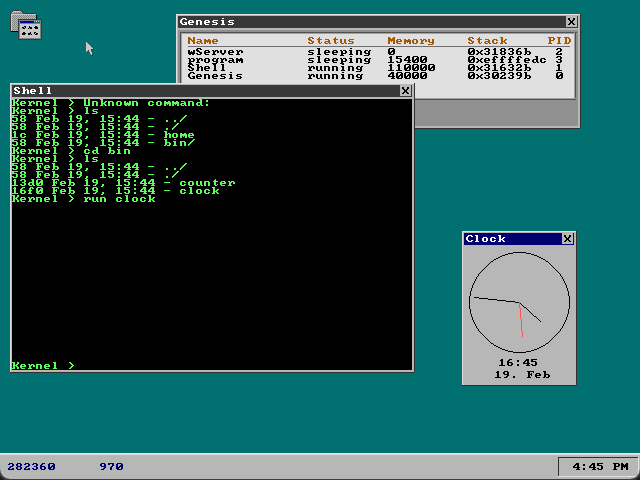
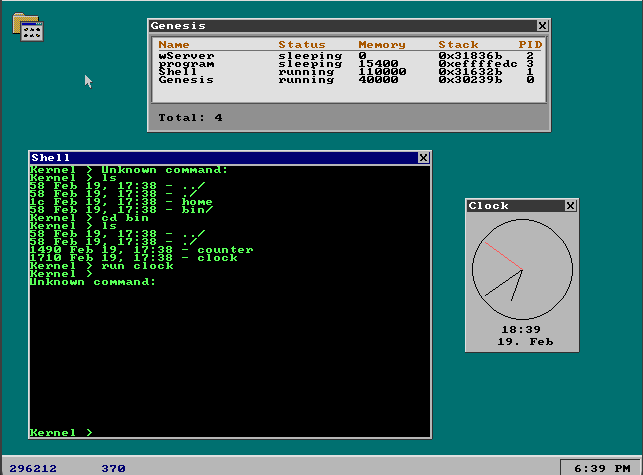
Clock: fixed visual bug

diff --git a/kernel/memory.c b/kernel/memory.c
@@ -414,7 +414,18 @@ void cleanup_process_paging(struct pcb* pcb)
 {
 	uint32_t directory = (uint32_t)pcb->page_dir;
 	uint32_t data_table = (uint32_t)pcb->page_dir[DIRECTORY_INDEX(0x1000000)] & ~PAGE_MASK;
-	uint32_t data_page = (uint32_t)((uint32_t*)(pcb->page_dir[DIRECTORY_INDEX(0x1000000)] & ~PAGE_MASK))[TABLE_INDEX(0x1000000)]& ~PAGE_MASK;
+
+	int size = pcb->data_size;
+	int i = 0;
+	while(size > 4096){
+		uint32_t data_page = (uint32_t)((uint32_t*)(pcb->page_dir[DIRECTORY_INDEX(0x1000000)] & ~PAGE_MASK))[TABLE_INDEX(0x1000000+(i*4096))]& ~PAGE_MASK;
+		memory_free_page((void*) data_page);
+		size -= 4096;
+		i++;
+	}
+
+	uint32_t data_page = (uint32_t)((uint32_t*)(pcb->page_dir[DIRECTORY_INDEX(0x1000000)] & ~PAGE_MASK))[TABLE_INDEX(0x1000000+(i*4096))]& ~PAGE_MASK;
+	memory_free_page((void*) data_page);
 
 	uint32_t stack_table = (uint32_t)pcb->page_dir[DIRECTORY_INDEX(0x1000000)] & ~PAGE_MASK;
 	uint32_t stack_page = (uint32_t)((uint32_t*)(pcb->page_dir[DIRECTORY_INDEX(0x1000000)] & ~PAGE_MASK))[TABLE_INDEX(0x1000000)]& ~PAGE_MASK;
@@ -426,7 +437,6 @@ void cleanup_process_paging(struct pcb* pcb)
 	memory_free_page((void*) stack_page);
 	memory_free_page((void*) stack_table);
 
-	memory_free_page((void*) data_page);
 	memory_free_page((void*) data_table);
 
 	memory_free_page((void*) dynamic_mem);

diff --git a/usr/clock.c b/usr/clock.c
@@ -24,6 +24,7 @@ int main()
     gfx_create_window(110, 140);
     gfx_set_title("Clock");
 
+    printf("Clock started\n");
     while (1)
     {
         get_current_time(&current_time);
@@ -32,9 +33,9 @@ int main()
 
         int angle_id = (0.5 * (current_time.hour%12 * 60 + current_time.minute) / 6);
 
-		gfx_draw_line(55, 55, 50 + (50*sin_60[angle_id])/1.5, 50+ (50*cos_60[angle_id])/1.25, 0);
-		gfx_draw_line(55, 55, 50 + (50*sin_60[current_time.minute])/1.25, 50+ (50*cos_60[current_time.minute])/1.25, 0);
-		gfx_draw_line(55, 55, 50 + (50*sin_60[current_time.second])/1.25, 50+ (50*cos_60[current_time.second])/1.25, 12);
+		gfx_draw_line(55, 55, 55 + (50*sin_60[angle_id])/1.5, 55+ (50*cos_60[angle_id])/1.5, 0);
+		gfx_draw_line(55, 55, 55 + (50*sin_60[current_time.minute])/1.1, 55+ (50*cos_60[current_time.minute])/1.1, 0);
+		gfx_draw_line(55, 55, 55 + (50*sin_60[current_time.second])/1.1, 55+ (50*cos_60[current_time.second])/1.1, 12);
 
         gfx_draw_circle(55, 55, 50, 0);
 
@@ -44,6 +45,5 @@ int main()
         sleep(100);
     }
     
-    printf("Clock started\n");
 	return 0;
 }

diff --git a/kernel/pcb.c b/kernel/pcb.c
@@ -343,7 +343,6 @@ int pcb_cleanup(int pid)
 
 	pcb_queue_remove(&pcbs[pid]);
 	dbgprintf("[PCB] Cleanup on PID %d stack: 0x%x (original: 0x%x)\n", pid, pcbs[pid].esp, pcbs[pid].org_stack);
-	dbgprintf("[PCB] Cleanup on PID %d kstack: 0x%x\n", pid, pcbs[pid].k_esp);
 
 	struct allocation* iter = pcbs[pid].allocations;
 	while(iter != NULL)
@@ -434,6 +433,7 @@ int create_process(char* program)
 	pcb->eip = (void (*)()) 0x1000000; /* External programs start */
 	pcb->running = NEW;
 	pcb->pid = i;
+	pcb->data_size = read;
 	memcpy(pcb->name, pname, strlen(pname)+1);
 	pcb->esp = 0xEFFFFFF0;
 	pcb->ebp = pcb->esp;

diff --git a/include/pcb.h b/include/pcb.h
@@ -45,6 +45,7 @@ struct pcb {
     uint32_t blocked_count;
 
     uint32_t* page_dir;
+    uint32_t data_size;
 
     char name[pcb_max_name_length];
 
